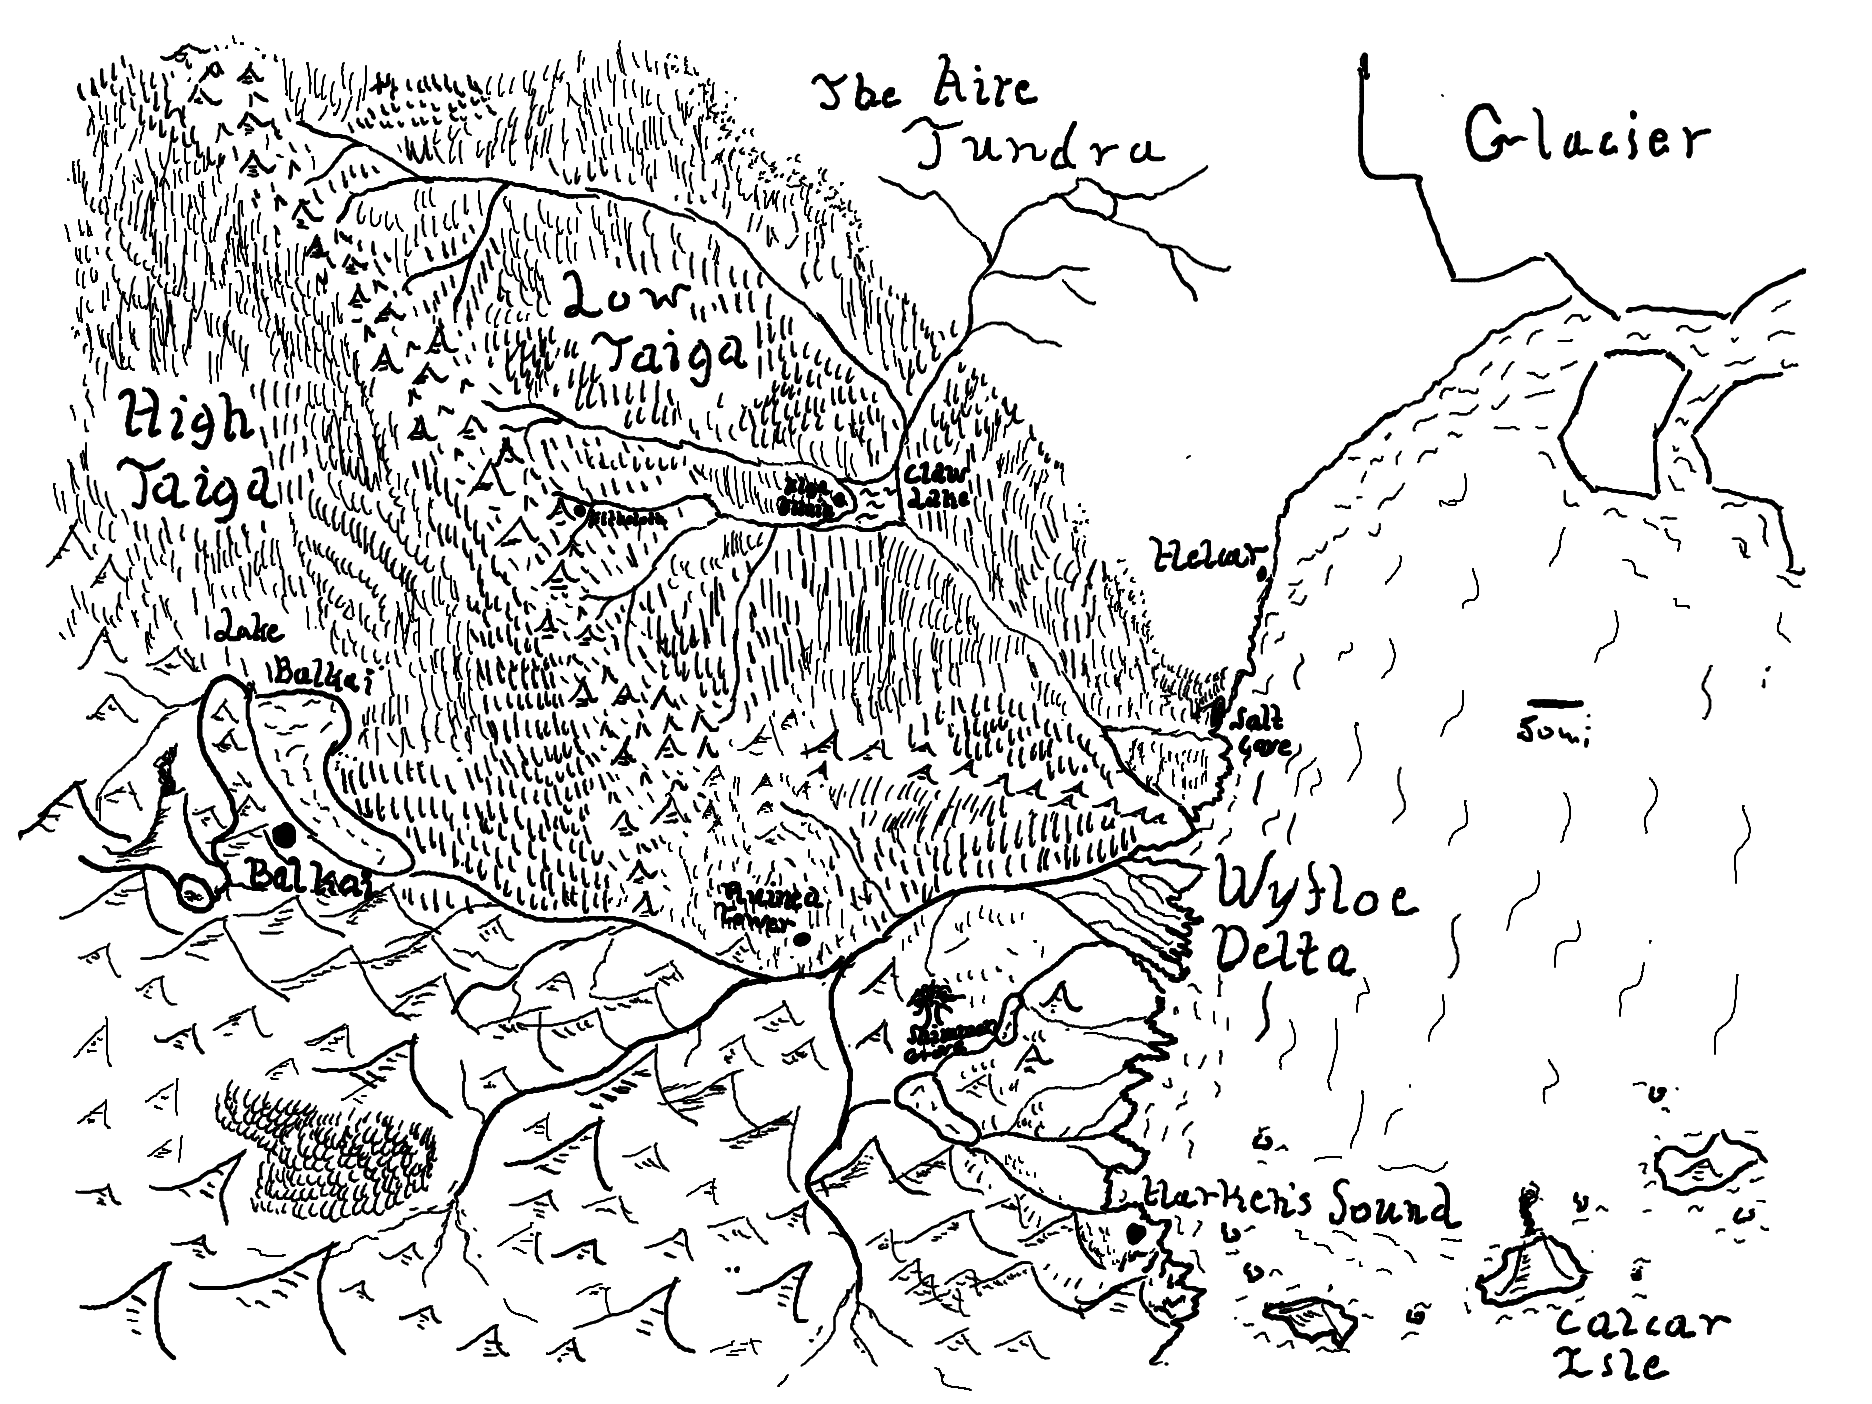
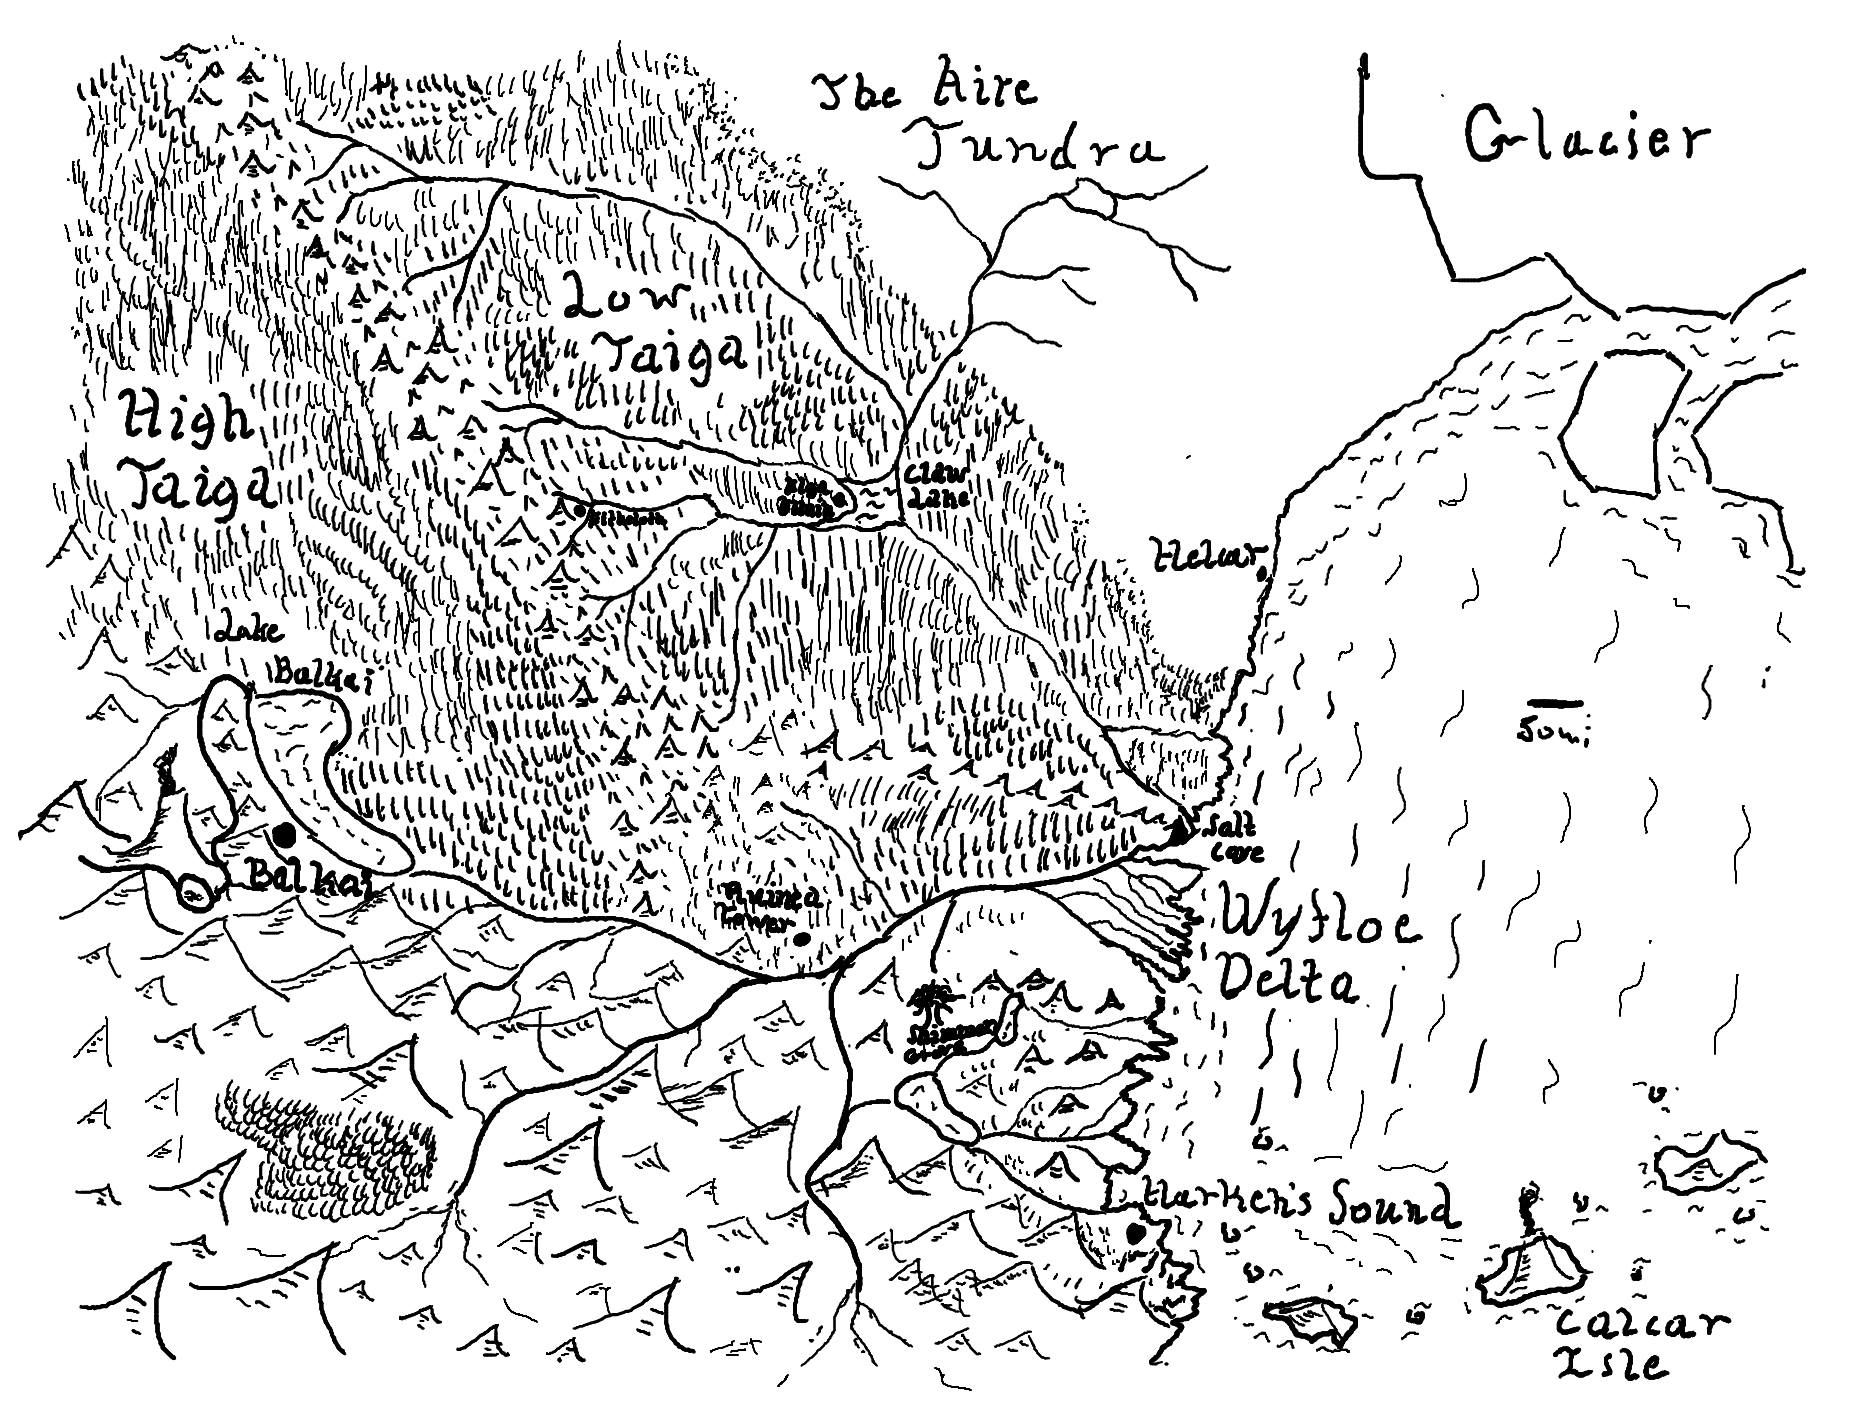
Quartz sync: Jul 14, 2025, 12:46 AM

diff --git a/content/Locations/The North/The Floes.md b/content/Locations/The North/The Floes.md
@@ -1,0 +1,54 @@
+###### Parent: [[Nordwythe]], [[Low Taiga]]
+![[floes.png]]
+
+
+### Travel Table
+
+| roll | Event | Encounter |
+| ---- | ----- | --------- |
+| 1    | 4     | 4         |
+| 2    | 1     | 1         |
+| 3    | 1     | 1         |
+| 4    | 1     | 1         |
+| 5    | 1     | 1         |
+| 6    | 1     | 0,1       |
+| 7    | 1     | 0,1       |
+| 8    | 1     | 0,1       |
+| 9    | 1     | 0         |
+| 10   | 1     | 0         |
+| 11   | 2     |           |
+| 12   | 2     |           |
+| 13   | 2     |           |
+| 14   | 2     |           |
+| 15   | 2     |           |
+| 16   | 3     | 3         |
+| 17   | 3     | 0,3       |
+| 18   | 3     | 0,3       |
+| 19   | 3     | 0         |
+| 20   | 4     | 0         |
+#### Events
+1. Peaceful Travel
+2. Rain and Mud (con saves or slow down)
+3. Spirited Mists
+4. Petrified Skinspliter Grove
+
+#### Encounters
+1. 3d4+3 Dire Lemmings attack the party, afterwards a Young Remorhaz erupts out of the ground:
+
+2. The party finds a wolfed-out figure hunting deer, will attack if it notices the party: 
+
+3. One misty night Erz Agrious
+
+4. A chance encounter with [[Grendelle the Grotesque]] and her [[Skinsplinterer]] bodyguard in the middle of the woods, how convenient!
+
+5. The party runs into an Aire druid in the woods.
+
+#### Statblocks:
+![[dire lemming.png]] 
+ 
+![[young remorhaz.png]]
+
+![[werewolf.png]]
+
+
+

diff --git a/content/Locations/The North/Ruined Tower.md b/content/Locations/The North/Ruined Tower.md
@@ -1,0 +1,25 @@
+###### Parent: [[The Floes]], [[Nordwythe]]
+
+Alberta: "Between that and the suspicious lack of nearby wildlife I decided it warranted investigation. I camped out nearby for a few days and found that the clearing is almost perfectly circular, and the ridge starts near the precise center of this circle and points out like a clock hand with only a few breaks in an otherwise straight line. I eventually discovered the whistling coming from one of these breaks in the stone of the ridge revealing a hollow interior cavity." 
+
+
+### Baird Arth'hel Ruin
+*"The Tower at Ash Hollow"*
+
+Before its fall at the end of the [[War of Salt and Snow]], this tower was the personal hold of the [[Northern Elves|Elven]] high mage [[Adhael Anar, Caendaur Fuirith|Adhael Anar]]. At its enterance is carved the phrase: *"Minno na Baird Arth'hel Ruin, i-vannad lin a naeg"* (Enter the tower at ashen hollow, your gift and your trial)
+
+![[tower1.png]]
+
+In it's heyday it contained the following rooms:
+1. Main Hall
+2. Labyrinth
+3. Master's Atrium
+4. Teleportation Chamber
+5. Animated Kitchen
+6. Extraplanar Study / Alchemy Laboratory
+7. Upper Balcony
+8. Master's Apartments
+9. Library
+10. Sitting Room
+11. Guest Apartments
+12. Obsevatory (chamber of knowing stars)

diff --git a/content/Articles/TO-DO.md b/content/Articles/TO-DO.md
@@ -1,12 +1,23 @@
 ###### Session Prep
 - flesh out Thetis crew and ocean travel encounters
-- Work with drew
-	- if ranger: Give him partially filled maps, and make tables to know things
-	- if elf: flesh out more of elven society
-- Map and populate cartographer's camp
-- Ocean and Taiga random tables and travel rules.
+	- solton encounter npcs
+	- what's in alberta's chest
+- Alberta description & inventory
+- Taiga random tables and travel rules.
+	- Lemming/Remorhaz: remorhaz token, loot in remorhaz lair
+	- Werewolf: token, brief backstory
+	- Erz: token + statblock
+	- New grendelle statblock (with trident and skinsplinterer)
+	- Aire druid name, personality, reason for exploring
+- Design ruined tower encouter:
+	- mimic-ish with a magic crown
+		- long reach tentacle
+		- stinky sweet aura
+		- teleportation
+- collude with drew and olivia
+- Finish up ruined tower map and loot tables
+
 - Write more of [[Adhael Anar, Caendaur Fuirith]]'s backstory and stuff, including [[War of Salt and Snow]].
-- Reconsider [[Erz Agrious|Erz]]. Put him in the taiga.
 - add morian priest to npc list. Is she a grim sage? -> yes, why write the grim sages if you don't use them.
 
 - Creatures: statblock to image

diff --git a/content/Articles/Thetis.md b/content/Articles/Thetis.md
@@ -1,4 +1,5 @@
-_Thetis_ is a medium sized dual-masted, multi-decked cargo ship. Her linen sails are currently tied up .
+_Thetis_ is a medium sized dual-masted, multi-decked cargo ship. Her linen sails are currently tied up. The deck itself is in fairly good condition 
+
 
 She has salt-stained linen sails stained 
 
@@ -8,7 +9,6 @@ The deck is a patchwork of sturdy planks, with ropes and lines running in every 
 
 One of them looks up at the sun and, with a sigh begins to heave a barrel aftwards from the main deck. Your eyes follow his path towards the rear of the ship, where you see, above the stairs two levels of quarters and some stairs leading down below decks.
 
-Coming up from those stairs, in conversation is a familiar rotund and flamboyantly mustachioed man, in an energetic conversation with a taller, thin man dressed in a purple coat.
 
 See [sailing ship](https://www.dndbeyond.com/vehicles/sailing-ship?srsltid=AfmBOop_eF_EuhUWHeFLsOB2tBngpGdGXTBAhPbK8_PqriGC8UGFUy1c|asd) for rules.
 
@@ -54,3 +54,19 @@ The fjords themselves last for an entire day and night of sailing before they fi
 - **Roll 16-17:** Fog, moderate winds.
 - **Roll 18-19:** Storm, heavy rain, very low visibility.
 - **Roll 20:** polar storm: torrential downpour, near zero visibility.
+
+#### Dreams
+
+**Bartholomood**: Fake-out. Set the scene with the boat rocking and the distant rhythmic clashing of waves like a cymbal rising and falling. Then say sleep comes peacefully.
+
+**Petunia**: You're unsettled, sleep does not come easily. Seeing that obelisk of a man in the guardhouse basement today/yesterday is bringing up all kinds of painful memories from the pits. Friends who you put out of their misery, and the one friendly face dragged away before your eyes. You never knew what happened to the winning gladiators after they were bought by the masters. Those tall lanky figures in long black robes and lacquered wooden masks still haunt your quiet moments. Then, as now, you couldn't do anything.
+
+**Rivka**: As you close your eyes and smell the seaspray on the air, you're lulled to sleep by the rhythmic rocking of the ship. You wake up on the deck, the air filled with a cold mist around you. Out of the mist drift six forms with elongated limbs beneath tattered robes, atop slender necks sit gaunt faces with hollow eyes and pointed ears. These wraiths are familiar to you, you've spoken once before.
+*\[pause to interact\]*
+The figures begin to drift closer together, opening a passage through the ring to the northwest.
+*\[pause to interact\]*
+As you walk pass through this circle of ghosts the deck beneath you begins to shift, the wood softens into mud and reeds, where a small wooden boat is caught in a lazily flowing stream. You get in the boat, and fall back into trance as you paddle into the mist.
+
+**JM**: You're having trouble falling asleep too, one night you're doing that thing where you turn over and over in your cot trying to find the cool side of your bedroll, and all that turning is getting you a little dizzy. You know when you're alone in a dark room and your brain starts to play tricks on you and all of the sudden your feet feel like they're miles away? Well the movement of the boat doesn't help at all. You close your eyes and try to focus on your breathing but you just keep spinning. Spinning and falling through a familiar red cloud, under crushing weight until you lie prostrate beneath a familiar throne where a familiar figure speaks to you:
+*"Adhael, Hero, Heretic, Savior, Sadist"*
+*"Burn his memory to ash, and rise with will renewed"*

diff --git a/content/Locations/Polities/Map Camp.md b/content/Locations/Polities/Map Camp.md
@@ -1,0 +1,20 @@
+###### Parent: [[Wyfloe Delta]], [[The Floes]], [[Nordwythe]]
+
+![[mapcamp.png]]
+
+
+After about an hour of padding past floating rafts of muddy grasses and vegetable matter, you begin to see a trail of smoke rise out of the tall reeds from a point a little ways upriver. As you approach from the east around a bend in the river, you see the smoke is rising from behind a wooden palisade sitting atop a pad of packed mud and straw. You see about four upturned canoes in front of an opening in the palisade, behind which you see a little movement as a lithe dangerous-looking redheaded human and a striking 9 foot tall silver-furred minotaur trail behind a jovial halfling woman with a cute little canvas hat who is skipping through the gate straight at you. Welcome Bitches! She shouts...
+
+#### Morning Stars
+
+**Captain [[Phineas Lysull]]:** lithe redhead, horn nubs, confident
+**Simba of Korn:** silver furred minotaur
+**Franny Drake:** buff warrior gal, big hair
+**Ol Chokey:** aging gnarly halfling
+**Jank and Jole:** swordsman siblings, lil' dark and standoffish
+
+#### Aire
+**Fleck Belasson:** translator, on the old side of fit
+**Mollis Finnsdottir:**
+**Slen Wittensdottir:**
+**Hasdrubal Barrinson:**

diff --git a/content/Events/Terror at the Tower.md b/content/Events/Terror at the Tower.md
@@ -1,12 +1,9 @@
 ###### *Sep 3 - ?, 0223*
 
 ### Setup
-Upon arriving at _camp_
+Upon arriving at [[Map Camp]]
 
-
-
-### Travel to 
-
+See [[The Floes]] for travel tables along the river Wyfloe.
 
 ### Encounter at the ruined tower
 

diff --git a/content/Creatures/Dire Lemmings.md b/content/Creatures/Dire Lemmings.md
@@ -1,5 +1,2 @@
 Omnivorous and comical animals, Dire Lemmings live in large colonies in tunnels through the ground ans snowpack all throughout [[Nordwythe]].
-```statblock
-creature: Giant Rat
-name: Dire Lemming
-```
+![[dire lemming.png]]

diff --git a/content/Characters/Alberta de Genne.md b/content/Characters/Alberta de Genne.md
@@ -1,4 +1,6 @@
 ###### *Female, [[Andradorans]], 102* 
 ###### Location(s): [[Wyfloe Delta]], [[Harport]], [[Harken's Sound]]
 A scholar from [[Andradora]], and prominent member of the [[Knowing Shepherds]]. Alberta is a resourceful and surprisingly durable field agent. Hearing tales of ancient ruins on [[Nordwythe]] (before [[Fort Solton]] bought off the journalists), she packed up and moved to investigate.
- 
+
+#### Statblock
+![[alberta de genne.png]]

diff --git a/content/Characters/minor/Uncle Tram Largoson.md b/content/Characters/minor/Uncle Tram Largoson.md
@@ -1,6 +1,6 @@
 ###### *Male, [[Aire Nomads]], 36*
-###### Location(s): [[Fowl Camp]]
-[[Kargoe Bepbiep Trukgohson]]'s uncle, and leader in [[Fowl Camp]], alongside [[Vos Flyggdottir]]. Just looking to protect his family and friends.
+###### Location(s): [[Fowyl Camp]]
+[[Kargoe Bepbiep Trukgohson]]'s uncle, and leader in [[Fowyl Camp]], alongside [[Vos Flyggdottir]]. Just looking to protect his family and friends.
 - Wife: Flythe
 - Son: Arplan, 7
 - Daughter: Heelie, 3

diff --git a/content/Characters/Rivka.md b/content/Characters/Rivka.md
@@ -7,4 +7,5 @@
 - Loves coffee
 
 #### Visions of the past
-Sitting in a stone circle outside of [[Fowl Camp]], Rivka was visited by the lanky spirits of long-dead denizens of those woods. They told her...
+Sitting in a stone circle outside of [[Fowyl Camp]], Rivka was visited by the lanky spirits of long-dead denizens of those woods. They told her... (whoops I forgot). Let's retcon/summarize:
+- I think they basically warned her about shay-luuq and all that stuff.

diff --git a/content/Characters/Drew's Character.md b/content/Characters/Drew's Character.md
@@ -1,5 +1,5 @@
 ###### *Male(?), Lemming/Humanoid, 4/v. old*
-###### Location(s): [[Ruined Tower]]
+###### Location(s): Ruined Tower
 
 - name ideas:
 	- panya (love it)

diff --git a/content/Characters/Kargoe Bepbiep Trukgohson.md b/content/Characters/Kargoe Bepbiep Trukgohson.md
@@ -1,5 +1,5 @@
 ###### *Male, [[Aire Nomads]], 20's*
-###### Location(s): [[Weir's Point]],[[Fowl Camp]],[[Milton]],[[Harport]]
+###### Location(s): [[Weir's Point]],[[Fowyl Camp]],[[Milton]],[[Harport]]
 - A strapping young lad
 - Common is his 2nd language
 